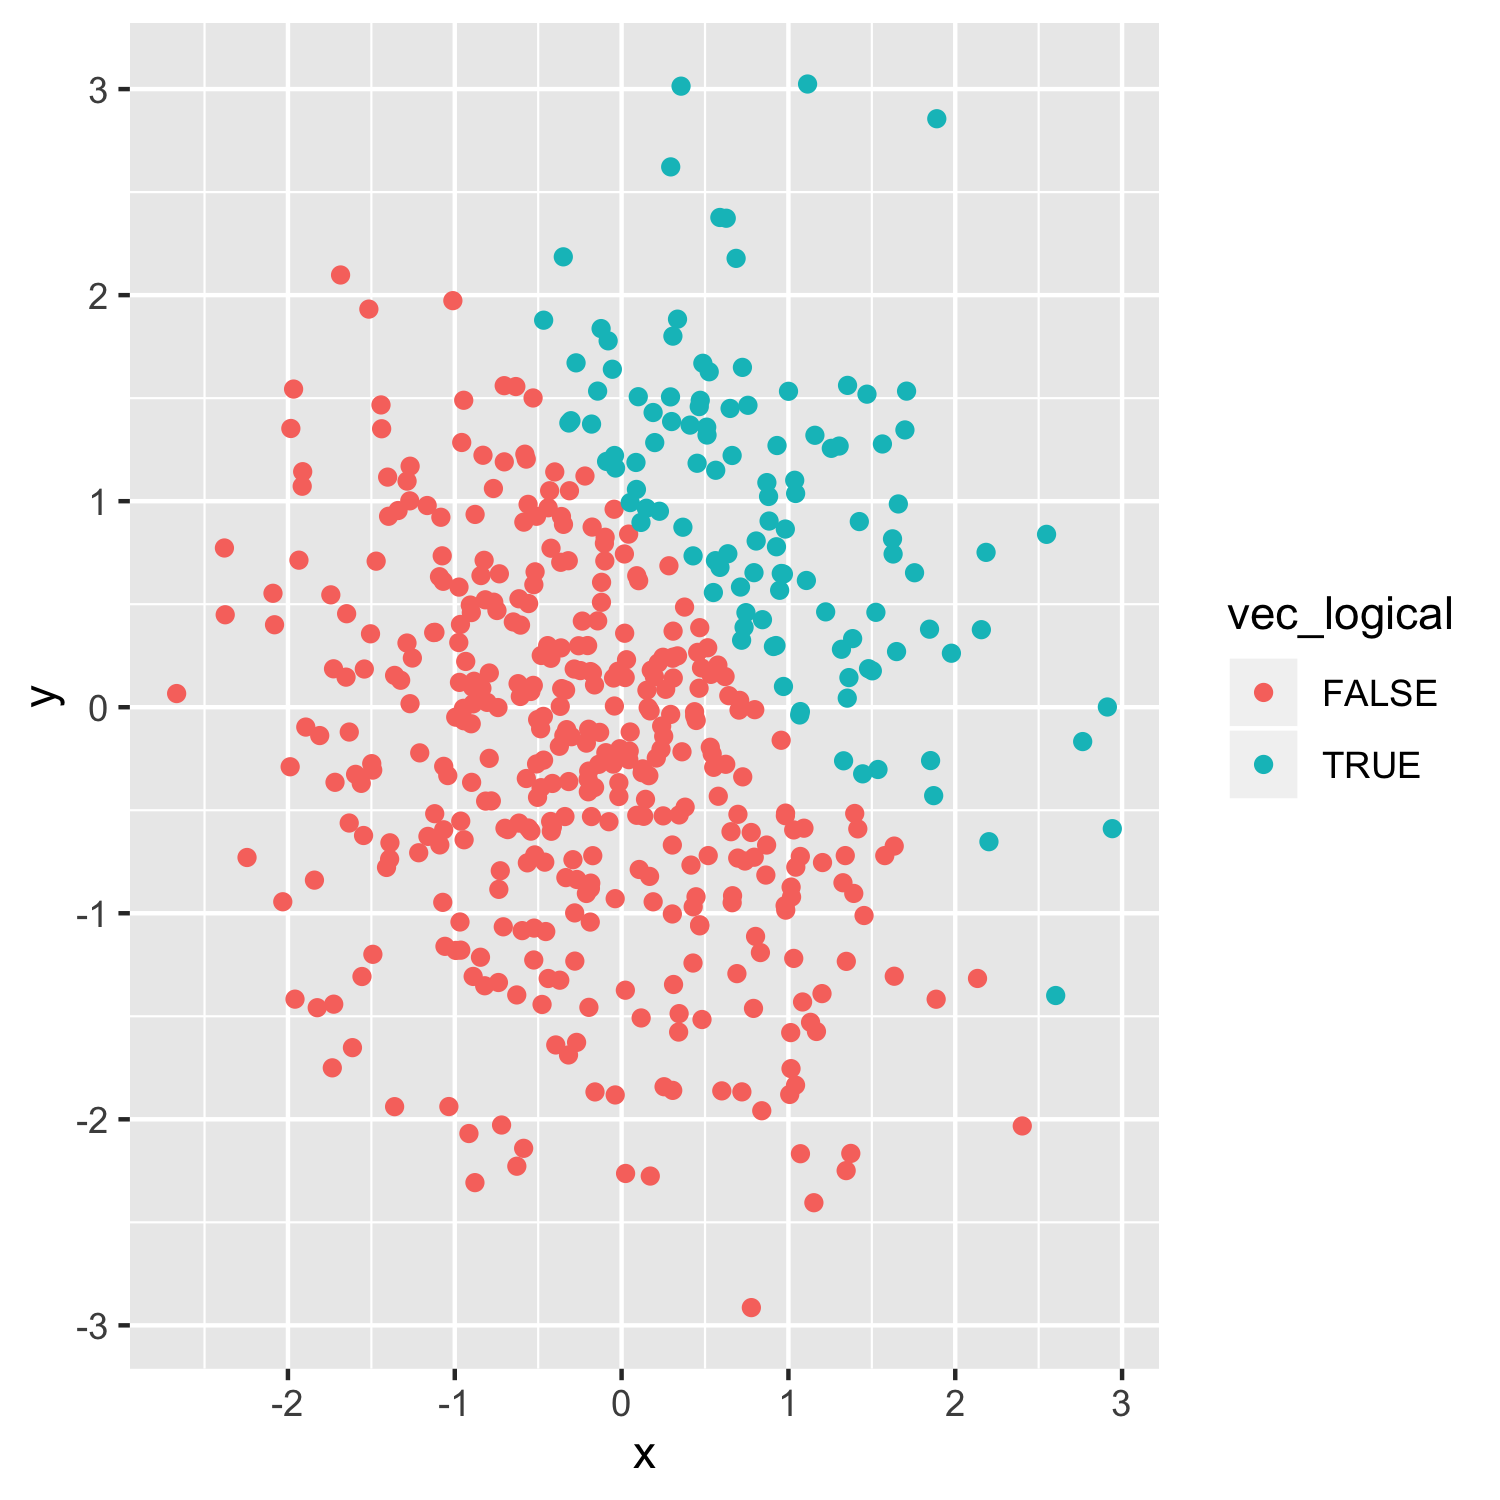
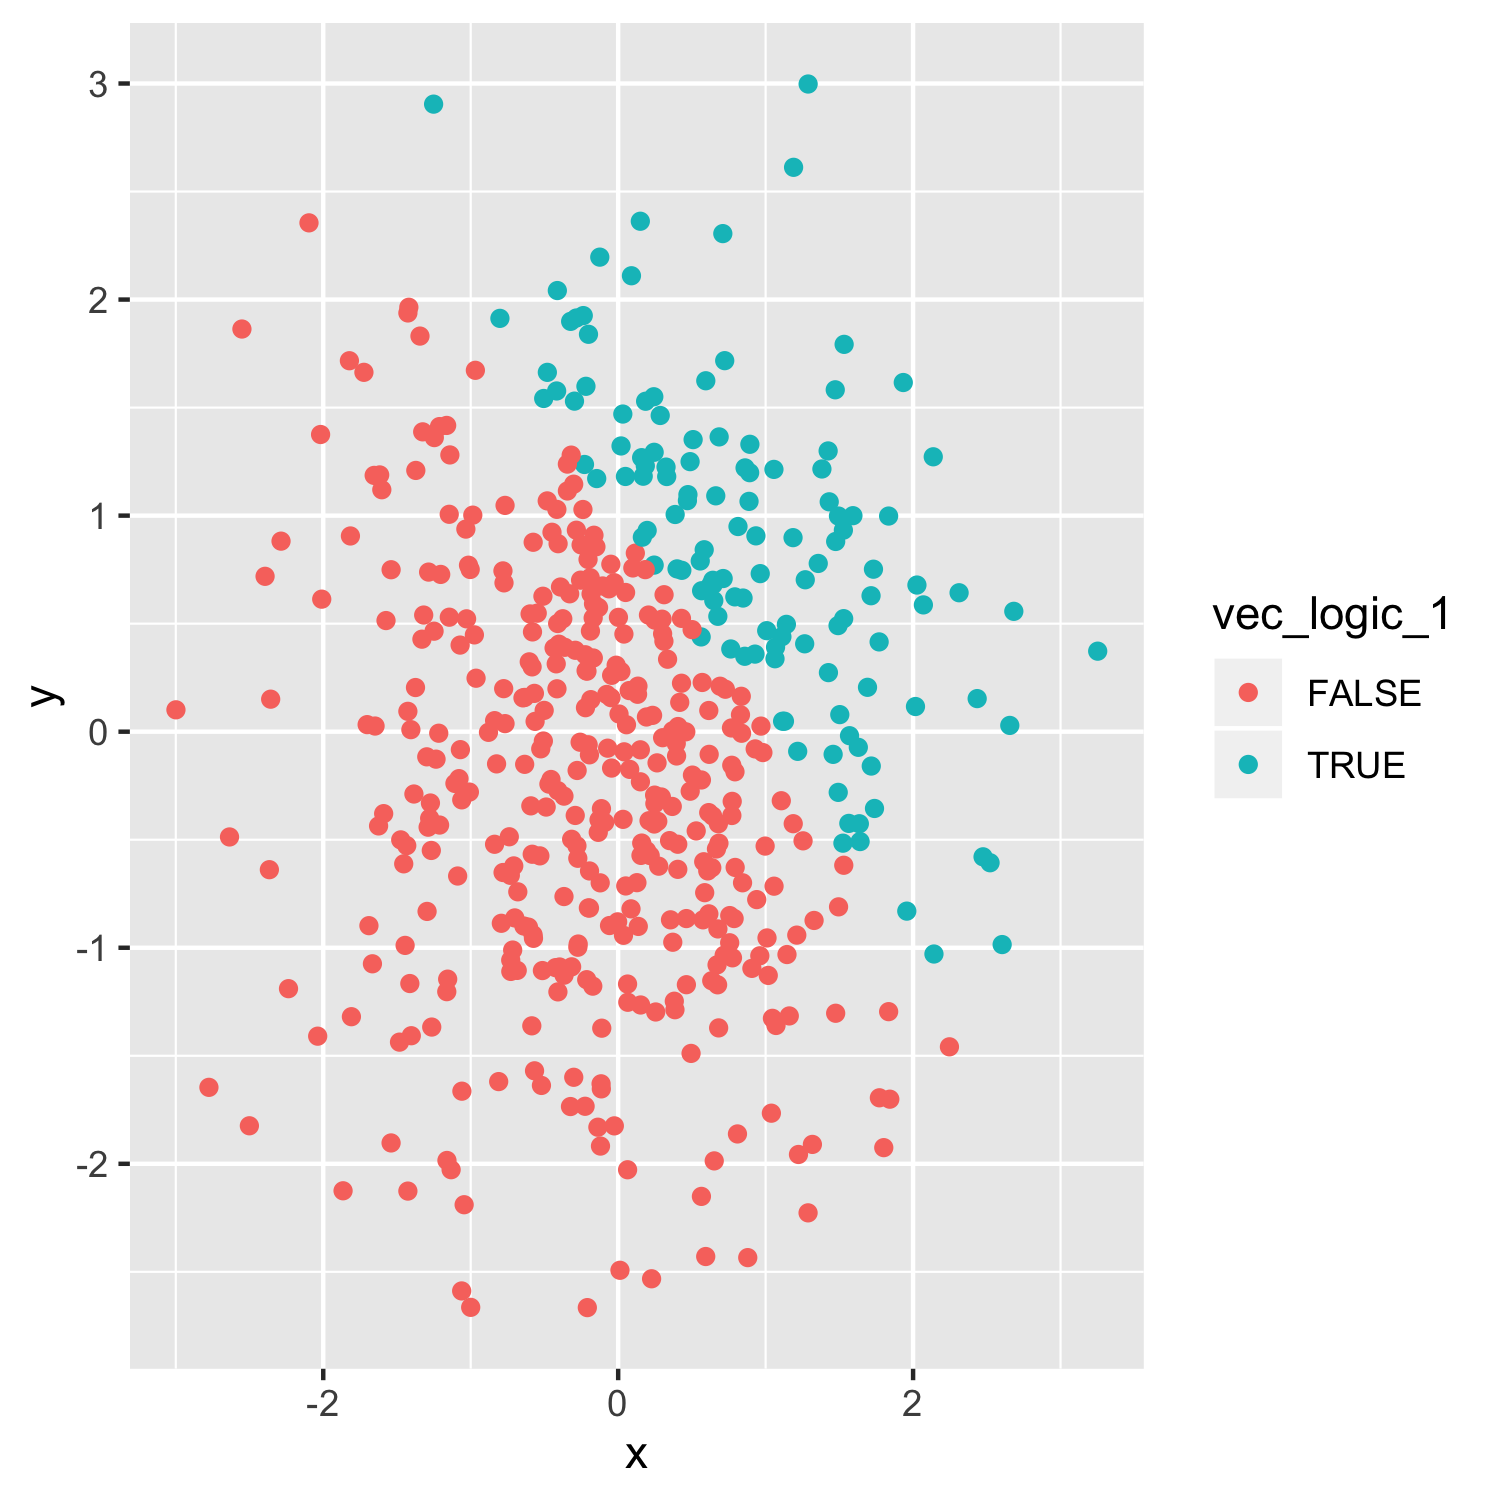
edited for typos. named scatterplot chunks

diff --git a/p8105_hw1_kzw2102.md b/p8105_hw1_kzw2102.md
@@ -5,7 +5,7 @@ Kelly Wang
 
 # Problem 1
 
-## creating the data frame
+## Creating the data frame
 
 ``` r
 # 1.creating a random sample of size 8 from a standard normal distribution
@@ -20,7 +20,7 @@ problem1_df=tibble(
 )
 ```
 
-## taking mean of each variable in the data frame
+## Taking mean of each variable in the data frame
 
 ``` r
 #create variable
@@ -33,13 +33,13 @@ levels=pull(problem1_df, var=vec_factor)
 mean(number)
 ```
 
-    ## [1] -0.2798906
+    ## [1] 0.01369759
 
 ``` r
 mean(overzero)
 ```
 
-    ## [1] 0.5
+    ## [1] 0.375
 
 ``` r
 mean(characters)
@@ -59,15 +59,16 @@ mean(levels)
 
     ## [1] NA
 
-First we create different variables that are assigned to each vector. I
+First we created different variables that are assigned to each vector. I
 labeled the random sample to be the variable “number”, the logical
 vector to be “overzero”, the character vector to be named “characters”,
-and the factor vector to be labeled “levels.” After tkaing the mean of
+and the factor vector to be labeled “levels.” After taking the mean of
 each variable/vector, it can be concluded that we can take the mean
-values of “number” and “overzero”, but not of “characters” or
-“levels”.
+values of “number” and “overzero”, but not of “characters” or “levels”.
+Thus, we can only take the mean of those that are numeric or logical
+vectors/variables.
 
-## using as.numeric function to the logical, character, and factor variables
+## Using as.numeric function to the logical, character, and factor variables
 
 ``` r
 as.numeric(overzero)
@@ -76,86 +77,123 @@ as.numeric(levels)
 ```
 
 Although I am not displaying the output, the results show that the
-as.numeric function does not work for logical, character, or factor
-vectors.
+as.numeric function does not work for character vectors. It does,
+however, work for logical and factor vectors. This is because logical
+vecotrs code this by either 0 or 1, whether factors convert the texts to
+1, 2, 3….
 
-## converting one variable to another
+I included the statement eval=False in order to hide the
+output.
+
+## Converting one variable to another
 
 ``` r
 #convert the logical vector to numeric, and multiple the random sample by the result
-c=number*as.numeric(overzero)
-c
+overzero_numeric=number*as.numeric(overzero)
+overzero_numeric
 ```
 
-    ## [1] 0.7518086 0.6262453 0.3287602 0.0000000 0.0000000 0.0000000 1.0642592
+    ## [1] 0.0000000 1.7115639 0.4046626 0.0000000 0.0000000 0.0000000 0.2457284
     ## [8] 0.0000000
 
 ``` r
 #convert the logical vector to a factor, and multiple the random sample by the result
-a=number*as.factor(overzero)
+overzero_factor=number*as.factor(overzero)
 ```
 
     ## Warning in Ops.factor(number, as.factor(overzero)): '*' not meaningful for
     ## factors
 
 ``` r
-a
+overzero_factor
 ```
 
     ## [1] NA NA NA NA NA NA NA NA
 
 ``` r
 #convert the logical vector to a factor and then convert the result to numeric, and multiply the random sample by the result
-b=number*as.numeric(as.factor(overzero))
-b
+overzero_factor_numeric=number*as.numeric(as.factor(overzero))
+overzero_factor_numeric
 ```
 
-    ## [1]  1.5036172  1.2524906  0.6575204 -0.1640330 -0.4992912 -2.9397456
-    ## [7]  2.1285183 -1.4071281
+    ## [1] -0.4145540  3.4231277  0.8093252 -1.0358617 -0.2519394 -0.2094674
+    ## [7]  0.4914567 -0.3405516
+
+We can see that because the logical vector is turned into numeric, we
+are able to multiply the results by a numeric value. However, converting
+the logical vector to factor vector, and then multiplying the result by
+the random result does not give meaningful result. Though, if we were to
+convert the logical vector to a factor and then convert the result to
+numeric, and multiply the random sample by the result, it would provide
+a valid answer since it is two numeric values being multiplied together.
 
 # Problem 2
 
-## creating data frame of x and y
+## Creating data frame of x and y
+
+We have created a dataframe comprised of the following: x: a random
+sample of size 500 from a standard Normal distribution; y: a random
+sample of size 500 from a standard Normal distribution; A logical vector
+indicating wehther x+y\>1; A numeric vector created by coercing the
+above logical vector; A factor vector created by coercing the above
+logical vector
 
 ``` r
 problem2_df=tibble(
   x=rnorm(500),
   y=rnorm(500),
-  vec_logical=(x+y)>1,
-  numeric1=as.numeric(vec_logical),
-  factor1=as.factor(vec_logical)
+  vec_logic_1=(x+y)>1,
+  numeric1=as.numeric(vec_logic_1),
+  factor1=as.factor(vec_logic_1)
 )
 ```
+
+### Description of your vector using inline R
 
 In this data set, there are 500 rows (or number of subjects) and 5
 columns, each denoting a different kind of variable.
 
-The mean of of our sample is -0.0282773, the median is -0.097822, and
-the standard deviation is 1.0507785.
+The mean of of our sample is 0.0293461, the median is 0.032247, and the
+standard deviation is 1.0230361.
 
-The proportion of cases for which x+y\>1 is 0.242.
+The proportion of cases for which x+y\>1 is 0.248.
 
-## scatterplots
+## Scatterplots
 
 ``` r
 #scatterplot of the logic variables
-ggplot(problem2_df, aes(x=x, y=y, color=vec_logical)) + geom_point()
+ggplot(problem2_df, aes(x=x, y=y, color=vec_logic_1)) + geom_point()
 ```
 
-![](p8105_hw1_kzw2102_files/figure-gfm/unnamed-chunk-3-1.png)<!-- -->
+![](p8105_hw1_kzw2102_files/figure-gfm/problem2_sp1_chunk-1.png)<!-- -->
 
 ``` r
 #saving ggplot with ggsave
 ggsave("plot1.png", width=5, height=5)
+```
+
+The first scatterplot displayed here shows the spread of the random
+sample stratified by points that are x+y\>1 and points that are x+y\<=1.
+I have exported the scatterplot into the project folder under the
+filename “plot1.png”.
+
+``` r
 #scatterplot of numeric variable
 ggplot(problem2_df, aes(x=x, y=y, color=numeric1)) + geom_point()
 ```
 
-![](p8105_hw1_kzw2102_files/figure-gfm/unnamed-chunk-3-2.png)<!-- -->
+![](p8105_hw1_kzw2102_files/figure-gfm/problem2_sp2_chunk-1.png)<!-- -->
+The second scatterplot displayed here shows the spread of the random
+sample stratified by points by their numeric values. We can see here
+that the values range from 0 to 1. Though, we see that majority lie in
+either 0 or 1. This makes sense since the choices are either true or
+false.
 
 ``` r
 #scatterplot of factor variables
 ggplot(problem2_df, aes(x=x, y=y, color=factor1)) + geom_point()
 ```
 
-![](p8105_hw1_kzw2102_files/figure-gfm/unnamed-chunk-3-3.png)<!-- -->
+![](p8105_hw1_kzw2102_files/figure-gfm/problem2_sp3_chunk-1.png)<!-- -->
+The third scatterplot displayed here shows the spread of the random
+sample stratified by different levels (true or false).
